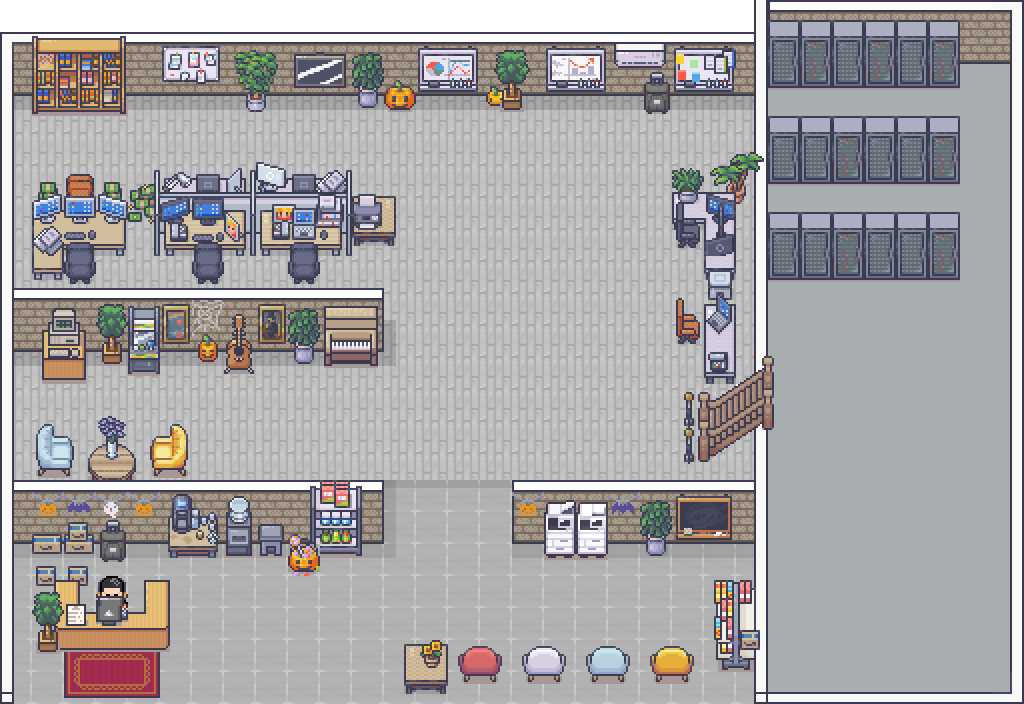
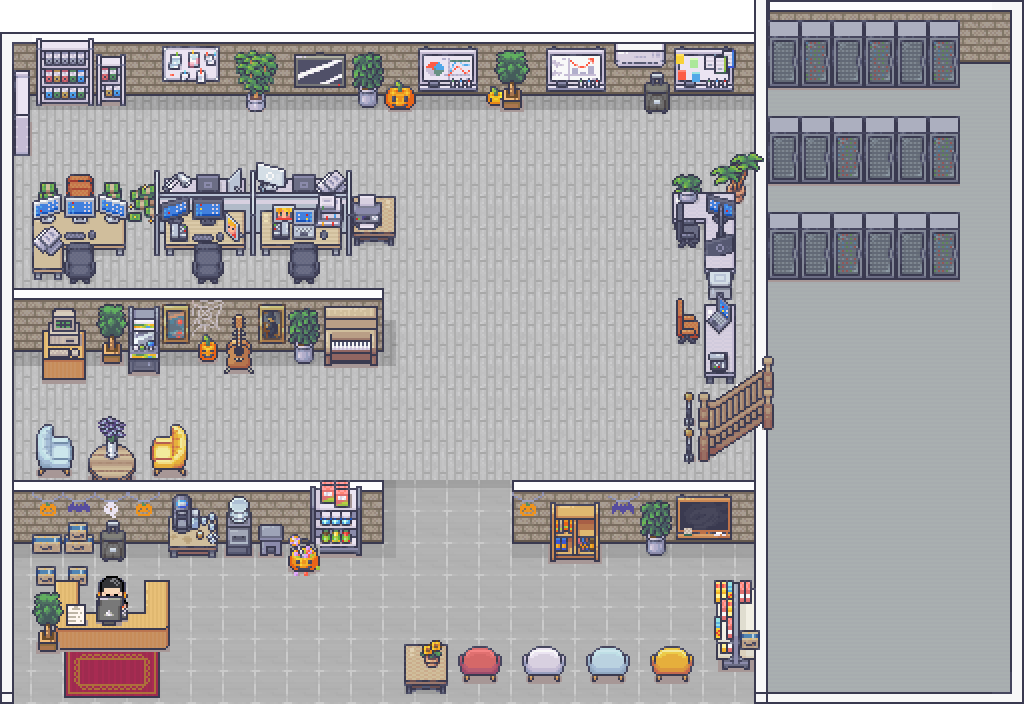
modify basemap and upload a new kanban map guide

Changed region(s): [[0.0, 0.0312, 0.125, 0.2188], [0.5312, 0.6875, 0.5938, 0.8125], [0.6562, 0.2188, 0.6875, 0.2812]]

diff --git a/client/src/components/map/Map.js b/client/src/components/map/Map.js
@@ -26,9 +26,10 @@ function Map({ x }) {
       <MapTile map={`officev4`} />
       {kanban && (
         <Sprite
-          image={'/sprites/action.png'}
-          data={{ h: 32, w: 32, x: 0, y: 0 }}
-          position={{ x: 173, y: 20 }}
+          zoom={0.4}
+          image={'/sprites/bubbles/kanban.gif'}
+          data={{ h: 180, w: 279, x: 0, y: 0 }}
+          position={{ x: 83, y: -68 }}
         />
       )}
       {userDashboard && (
